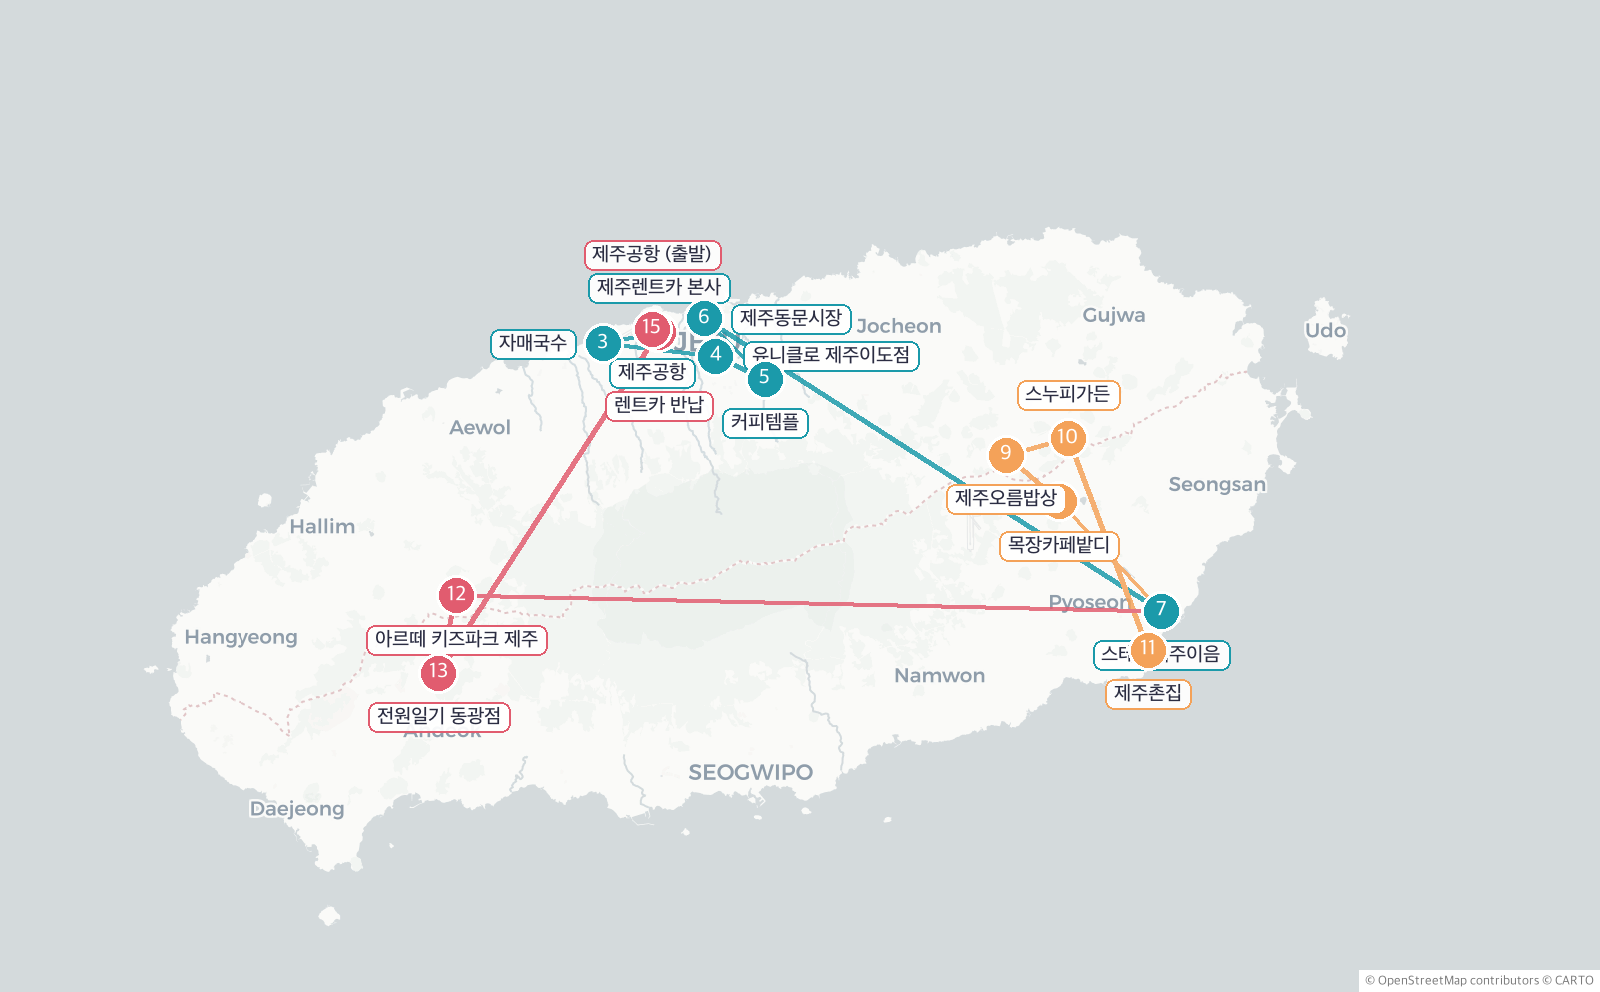
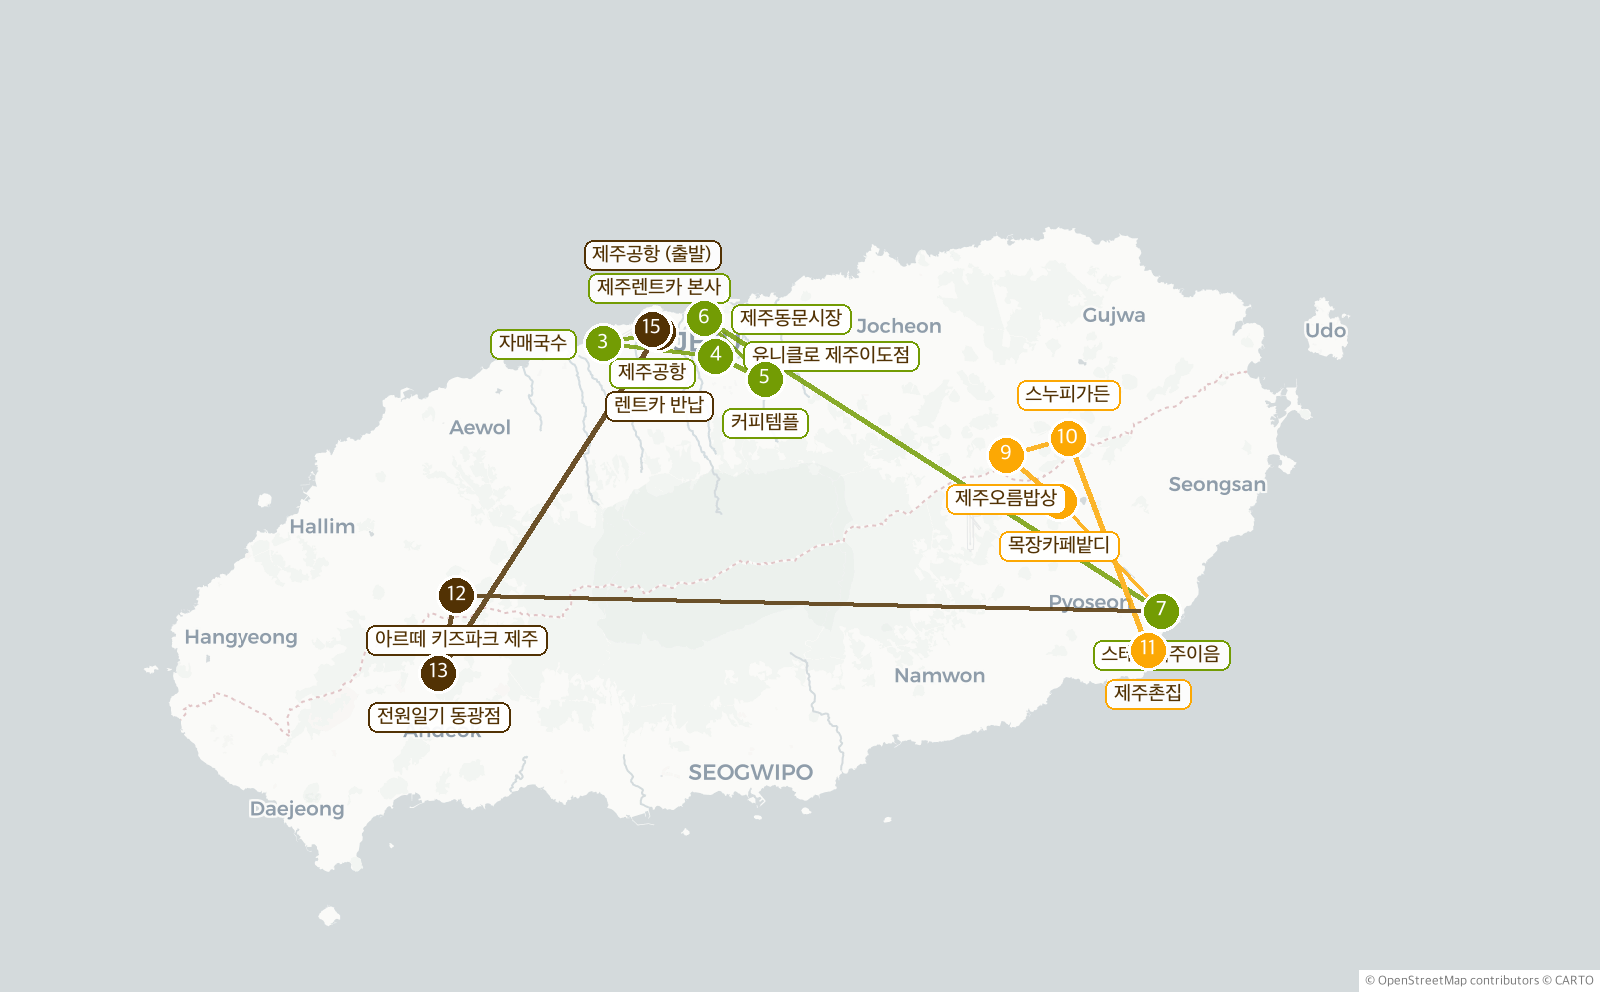
계획표 갱신 2026-07-30 13:46

diff --git a/489c57cd83/index.html b/489c57cd83/index.html
@@ -7,9 +7,9 @@
 <title>제주 가족여행 · 2026.08</title>
 <style>
   :root{
-    --ocean:#1b9aaa; --ocean-deep:#0f6d78; --coral:#ff6b6b;
-    --sand:#fef6e4; --ink:#2b2d42; --muted:#8a8f9c; --line:#e7e2d6;
-    --day1:#1b9aaa; --day2:#f4a259; --day3:#e15c6f;
+    --ocean:#739C04; --ocean-deep:#4E6B03; --coral:#FCA804;
+    --sand:#FFF3DC; --ink:#523204; --muted:#9A8560; --line:#EBDFC4;
+    --day1:#739C04; --day2:#FCA804; --day3:#523204;
     --card:#ffffff;
   }
   *{box-sizing:border-box;margin:0;padding:0}
@@ -22,7 +22,7 @@
 
   /* Header */
   header{
-    background:linear-gradient(160deg,var(--ocean) 0%,var(--ocean-deep) 100%);
+    background:linear-gradient(155deg,#8FB520 0%,var(--ocean) 45%,#523204 130%);
     color:#fff; padding:30px 22px 26px; text-align:center;
     border-radius:0 0 26px 26px;
   }
@@ -34,7 +34,7 @@
   /* Map */
   .map-card{
     background:var(--card); margin:-16px 14px 0; border-radius:20px;
-    padding:16px 14px 12px; box-shadow:0 8px 26px rgba(15,109,120,.13);
+    padding:16px 14px 12px; box-shadow:0 8px 26px rgba(82,50,4,.13);
     position:relative;
   }
   .map-card h2{font-size:15px; color:var(--ocean-deep); margin-bottom:8px; display:flex; align-items:center; gap:6px}
@@ -53,7 +53,7 @@
   /* Day card */
   .day{
     background:var(--card); margin:14px 14px 0; border-radius:18px;
-    padding:16px 16px 6px; box-shadow:0 4px 16px rgba(43,45,66,.06);
+    padding:16px 16px 6px; box-shadow:0 4px 16px rgba(82,50,4,.07);
     border-top:5px solid var(--dc,var(--ocean));
   }
   .day-head{display:flex; align-items:baseline; gap:10px; margin-bottom:10px}
@@ -75,18 +75,18 @@
 
   /* placeholder */
   .todo{
-    background:#faf7ef; border:1.5px dashed #d9cfb6; border-radius:12px;
+    background:#FFFAF0; border:1.5px dashed #E3CE9A; border-radius:12px;
     padding:9px 12px; margin:9px 0; display:flex; align-items:center; gap:8px;
-    color:#b6a67f; font-size:13.5px; font-weight:600;
+    color:#A8894A; font-size:13.5px; font-weight:600;
   }
 
   /* Info */
   .info{
     background:var(--card); margin:14px 14px 0; border-radius:18px; padding:16px 18px;
-    box-shadow:0 4px 16px rgba(43,45,66,.06);
+    box-shadow:0 4px 16px rgba(82,50,4,.07);
   }
   .info h3{font-size:14px; color:var(--ocean-deep); margin-bottom:10px}
-  .info .row{display:flex; padding:6px 0; border-bottom:1px solid #f0ece1; font-size:13.5px}
+  .info .row{display:flex; padding:6px 0; border-bottom:1px solid #F0E6CE; font-size:13.5px}
   .info .row:last-child{border-bottom:none}
   .info .k{flex:0 0 92px; color:var(--muted); font-weight:600}
   .info .v{flex:1; font-weight:600; word-break:break-all}
@@ -149,7 +149,7 @@
   }
   .gap{display:flex; align-items:center; padding:1px 0 3px}
   .gap .bd{font-size:10.5px; font-weight:700; color:var(--ocean-deep);
-    background:#eaf6f7; border-radius:9px; padding:2px 5px; white-space:nowrap;
+    background:#FFF0D2; border-radius:9px; padding:2px 5px; white-space:nowrap;
     min-width:46px; text-align:center;
     line-height:1.25; letter-spacing:-.3px}
   .pin{display:inline-flex; align-items:center; justify-content:center;
@@ -159,8 +159,8 @@
   .pin.d3{background:var(--day3)}
   .item.tappable{cursor:pointer; border-radius:10px; margin:0 -6px; padding-left:6px;
     padding-right:6px; transition:background .15s}
-  .item.tappable:active{background:#f2f8f9}
-  @media (hover:hover){.item.tappable:hover{background:#f6fafb}}
+  .item.tappable:active{background:#FBF4E4}
+  @media (hover:hover){.item.tappable:hover{background:#FDF8EE}}
 </style>
 </head>
 <body>
@@ -184,7 +184,7 @@
     <script>
     (function(){
       var pts = [{"n": 1, "id": "airport", "name": "제주공항", "lat": 33.5068398, "lon": 126.492723, "day": 1, "time": "09:00", "addr": "제주특별자치도 제주시 공항로 2", "phone": "1661-2626", "url": "http://place.map.kakao.com/10808261"}, {"n": 2, "id": "rentcar", "name": "제주렌트카 본사", "lat": 33.5049944, "lon": 126.4971834, "day": 1, "time": "10:00", "addr": "제주특별자치도 제주시 용문로 8", "phone": "1588-3301", "url": "http://place.map.kakao.com/26887342"}, {"n": 3, "id": "jamae", "name": "자매국수", "lat": 33.498579, "lon": 126.4591426, "day": 1, "time": "11:00", "addr": "제주특별자치도 제주시 항골남길 46", "phone": "064-746-2222", "url": "http://place.map.kakao.com/21455793"}, {"n": 4, "id": "uniqlo", "name": "유니클로 제주이도점", "lat": 33.4912167, "lon": 126.5362246, "day": 1, "time": "12:30", "addr": "제주특별자치도 제주시 구남로8길 1", "phone": "064-759-8756", "url": "http://place.map.kakao.com/1969411749"}, {"n": 5, "id": "coffee", "name": "커피템플", "lat": 33.4781648, "lon": 126.5702468, "day": 1, "time": "13:45", "addr": "제주특별자치도 제주시 영평길 269", "phone": "070-8806-8051", "url": "http://place.map.kakao.com/99092488"}, {"n": 6, "id": "dongmun", "name": "제주동문시장", "lat": 33.5127966, "lon": 126.5283197, "day": 1, "time": "15:00", "addr": "제주특별자치도 제주시 동문로 16", "phone": "", "url": "http://place.map.kakao.com/1262338999"}, {"n": 7, "id": "stay", "name": "스테이제주이음", "lat": 33.3451558, "lon": 126.8423186, "day": 1, "time": "17:30", "addr": "제주특별자치도 서귀포시 표선면 하천로 37", "phone": "0507-1484-1511", "url": "http://place.map.kakao.com/833379597"}, {"n": 8, "id": "batdi", "name": "목장카페밭디", "lat": 33.4079, "lon": 126.7722163, "day": 2, "time": "10:30", "addr": "제주특별자치도 서귀포시 표선면 번영로 2486", "phone": "0502-5553-3618", "url": "http://place.map.kakao.com/1011635289"}, {"n": 9, "id": "oreum", "name": "제주오름밥상", "lat": 33.4344907, "lon": 126.7356641, "day": 2, "time": "12:30", "addr": "제주특별자치도 제주시 구좌읍 비자림로 1220", "phone": "0502-5552-9829", "url": "http://place.map.kakao.com/117530180"}, {"n": 10, "id": "snoopy", "name": "스누피가든", "lat": 33.4441313, "lon": 126.7781669, "day": 2, "time": "14:00", "addr": "제주특별자치도 제주시 구좌읍 금백조로 930", "phone": "064-805-1118", "url": "http://place.map.kakao.com/852041742"}, {"n": 11, "id": "chonjip", "name": "제주촌집", "lat": 33.3229068, "lon": 126.8331378, "day": 2, "time": "18:00", "addr": "제주특별자치도 서귀포시 표선면 표선관정로 127-6", "phone": "064-787-8205", "url": "http://place.map.kakao.com/2058805658"}, {"n": 12, "id": "arte", "name": "아르떼 키즈파크 제주", "lat": 33.3539454, "lon": 126.3585969, "day": 3, "time": "09:50", "addr": "제주특별자치도 제주시 애월읍 월각로 929", "phone": "064-799-7007", "url": "http://place.map.kakao.com/1657397874"}, {"n": 13, "id": "jeonwon", "name": "전원일기 동광점", "lat": 33.309729, "lon": 126.3459447, "day": 3, "time": "12:00", "addr": "제주특별자치도 서귀포시 안덕면 신화역사로 548", "phone": "064-763-5060", "url": "http://place.map.kakao.com/964312472"}, {"n": 14, "id": "rentcar_return", "name": "렌트카 반납", "lat": 33.5056944, "lon": 126.49788339999999, "day": 3, "time": "14:00", "addr": "제주특별자치도 제주시 용문로 8", "phone": "1588-3301", "url": "http://place.map.kakao.com/26887342"}, {"n": 15, "id": "airport_out", "name": "제주공항 (출발)", "lat": 33.5075398, "lon": 126.49342299999999, "day": 3, "time": "15:00", "addr": "제주특별자치도 제주시 공항로 2", "phone": "1661-2626", "url": "http://place.map.kakao.com/10808261"}];
-      var colors = {"1": "#1b9aaa", "2": "#f4a259", "3": "#e15c6f"};
+      var colors = {"1": "#739C04", "2": "#FCA804", "3": "#523204"};
       // 선은 캔버스로 그린다 (SVG로 그리면 일부 환경에서 색 덩어리로 깨진다)
       var map = L.map('map', {scrollWheelZoom:false, preferCanvas:true});
       map.attributionControl.setPrefix('Leaflet');  // 기본 접두사의 국기 아이콘 제거

diff --git a/489c57cd83/print.html b/489c57cd83/print.html
@@ -6,9 +6,9 @@
 <style>
   @page { size: A4 portrait; margin: 11mm; }
   :root{
-    --ocean:#1b9aaa; --ocean-deep:#0f6d78; --coral:#ff6b6b;
-    --sand:#fef6e4; --ink:#2b2d42; --muted:#7f8590; --line:#e7e2d6;
-    --day1:#1b9aaa; --day2:#f4a259; --day3:#e15c6f;
+    --ocean:#739C04; --ocean-deep:#4E6B03; --coral:#FCA804;
+    --sand:#FFF3DC; --ink:#523204; --muted:#9A8560; --line:#EBDFC4;
+    --day1:#739C04; --day2:#FCA804; --day3:#523204;
   }
   *{box-sizing:border-box; margin:0; padding:0;
     -webkit-print-color-adjust:exact; print-color-adjust:exact;}
@@ -26,7 +26,7 @@
   /* Header */
   .head{
     display:flex; align-items:center; justify-content:space-between;
-    background:linear-gradient(120deg,var(--ocean),var(--ocean-deep));
+    background:linear-gradient(120deg,var(--ocean),#523204);
     color:#fff; border-radius:12px; padding:14px 20px; margin-bottom:14px;
   }
   .head .l .eyebrow{font-size:10px; letter-spacing:2.5px; opacity:.85; font-weight:700}
@@ -62,20 +62,20 @@
   .day .badge{background:var(--dc); color:#fff; font-weight:800; font-size:10.5px; padding:2px 8px; border-radius:12px}
   .day .date{font-size:11px; color:var(--muted); font-weight:700}
 
-  .it{display:flex; gap:7px; padding:5px 0; border-bottom:1px dashed #efeadf}
+  .it{display:flex; gap:7px; padding:5px 0; border-bottom:1px dashed #F0E6CE}
   .it:last-child{border-bottom:none}
   .it .tm{flex:0 0 34px; font-size:10px; font-weight:800; color:var(--ocean-deep); padding-top:1px}
   .it .bd .t{font-weight:700; font-size:11.5px; line-height:1.3}
   .it .bd .d{font-size:9.5px; color:var(--muted); margin-top:1px; line-height:1.35}
 
-  .todo{border:1.3px dashed #d9cfb6; background:#faf7ef; color:#b09b6c;
+  .todo{border:1.3px dashed #E3CE9A; background:#FFFAF0; color:#A8894A;
         border-radius:8px; padding:5px 8px; margin:5px 0; font-size:10.5px; font-weight:700;
         display:flex; align-items:center; gap:6px}
 
   /* Reservation cards */
   .resv{display:grid; grid-template-columns:repeat(3,1fr); gap:12px}
   .resv .card h2{margin-bottom:7px}
-  .resv .row{display:flex; padding:3.5px 0; border-bottom:1px solid #f2eee3; font-size:10.5px}
+  .resv .row{display:flex; padding:3.5px 0; border-bottom:1px solid #F0E6CE; font-size:10.5px}
   .resv .row:last-child{border-bottom:none}
   .resv .k{flex:0 0 50px; color:var(--muted); font-weight:700}
   .resv .v{flex:1; font-weight:600; word-break:break-all}
